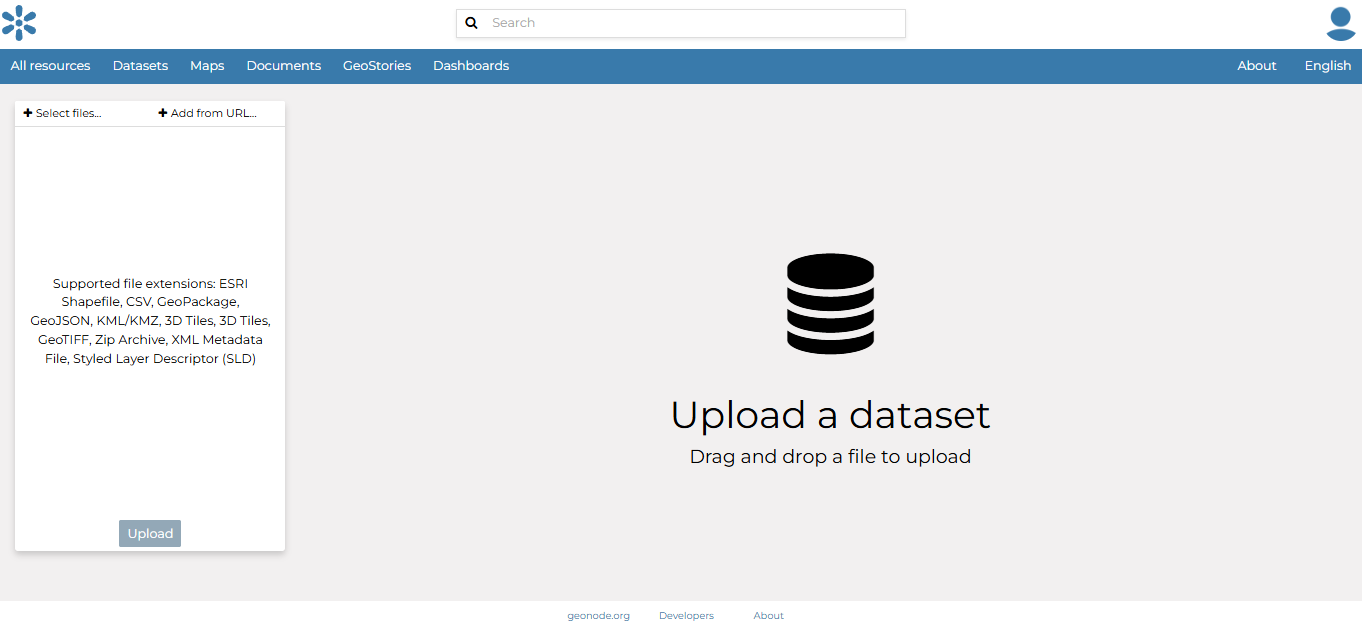
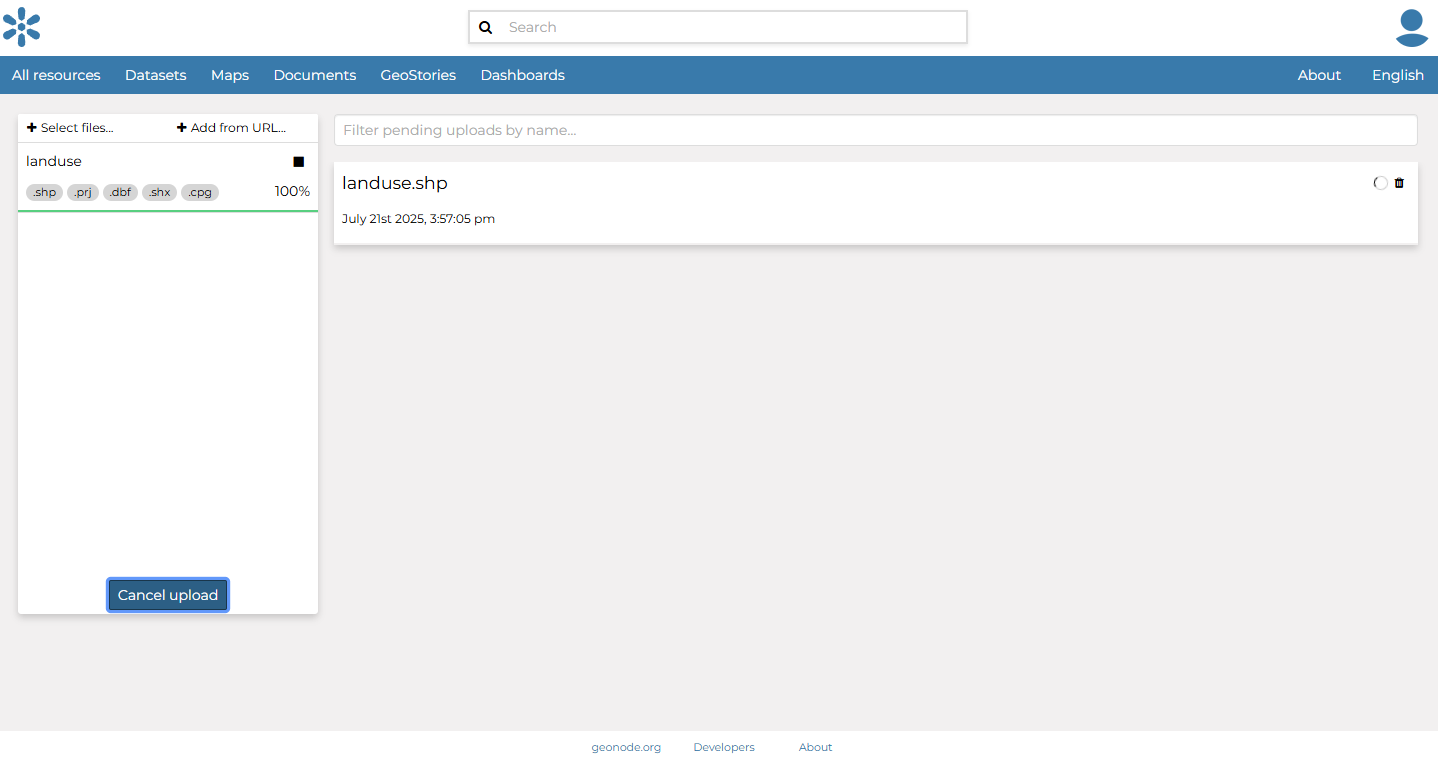
Update: GeoNode Manual - Datasets

diff --git a/docs/src/products/geonode/manual/dataset.md b/docs/src/products/geonode/manual/dataset.md
@@ -14,114 +14,71 @@ context_id: nDU6LLGiXPTLADXY
 
 # Uploading Datasets
 
-## Overview
-
-In GeoNode, **datasets** are the core published resources that represent either **raster** or **vector** spatial data sources. Each dataset can also include metadata, user ratings, and comments. This makes them collaborative and easy to manage within the GeoNode environment.
+In GeoNode, **datasets** are core resources that represent either **vector** or **raster** spatial data. Each dataset includes metadata and supports user collaboration through comments and ratings. Uploading datasets is a key part of sharing spatial content on your GeoNode instance.
 
 <br>
 
-You can upload datasets in two ways:
+You can start the upload process in two places:
 
-1. **From the All Resources Page:**
-
-     Click **Add Resource** and select **Upload dataset** from the list.
-
-     <br>
-
-2. **From the Datasets Page:**
-
-     Click **New** and select **Upload dataset** from the dropdown.
-
-     <br>
-
-> **Note:** The default maximum upload size in GeoNode is 100 MB. Administrators can increase this limit in the admin panel.
-The maximum number of parallel uploads is 5. This setting can also be adjusted by an administrator.
-
----
-
-## Exercise
-
-Follow these steps to upload your dataset to GeoNode:
-
-1. On the GeoNode **Homepage**, click the **Datasets** tab.
-
-     <br>
-
-     <div style="text-align: center;">
-      <img src="../../img/geonode-img-12.png" alt="Datasets Tab" width=auto>
-      <div style="font-size: 0.8em; color: gray; margin-top: 4px;">
-      Image credit: <a href="https://geonode.org/" target="_blank">GeoNode</a>
-      </div>
-     </div>
-
-     <br>
-
-2. Click **New** and select **Upload dataset** from the dropdown.
-
-     <br>
-
-     <div style="text-align: center;">
-      <img src="../../img/geonode-img-13.png" alt="Upload Dataset Dropdon" width=auto>
-      <div style="font-size: 0.8em; color: gray; margin-top: 4px;">
-      Image credit: <a href="https://geonode.org/" target="_blank">GeoNode</a>
-      </div>
-     </div>
-
-     <br>
-
-3. From the **Upload a Dataset** page, click **Select files...** to choose spatial data files from your computer.
-
-     <br>
-
-     <div style="text-align: center;">
-      <img src="../../img/geonode-img-14.png" alt="Select Files" width=auto>
-      <div style="font-size: 0.8em; color: gray; margin-top: 4px;">
-      Image credit: <a href="https://geonode.org/" target="_blank">GeoNode</a>
-      </div>
-     </div>
-
-     <br>
-
-4. From your file explorer, select the file: `Tutorial_Berlin-shp.zip`
-
-     <br>
-
-     <div style="text-align: center;">
-      <img src="../../img/geonode-img-15.png" alt="Selected Files" width=auto>
-      <div style="font-size: 0.8em; color: gray; margin-top: 4px;">
-      Image credit: <a href="https://geonode.org/" target="_blank">GeoNode</a>
-      </div>
-     </div>
-
-     <br>
-
-5. Click **Upload** to begin the dataset upload process.
-
-     <br>
-
-A progress bar will display the upload status and notify you when the upload is complete. When the upload finishes, click the **View** button to open your dataset.
+- From the **All Resources** page via **Add Resource → Upload dataset**
+- From the **Datasets** page via **New → Upload dataset**
 
 <br>
 
-<div style="text-align: center;">
- <img src="../../img/geonode-img-16.png" alt="View Uploaded Datasets" width=auto>
- <div style="font-size: 0.8em; color: gray; margin-top: 4px;">
- Image credit: <a href="https://geonode.org/" target="_blank">GeoNode</a>
- </div>
+## Step 1: Access the Dataset Page
+
+From the GeoNode **Homepage**, click the **Datasets** tab. Then, click the **New button** and select **Upload dataset** from the dropdown.
+
+<br>
+
+<div class="image-with-caption">
+  <img src="../../img/geonode-img-13.png" alt="Datasets Tab">
+  <div class="caption">
+    Image credit: <a href="https://geonode.org/" target="_blank">GeoNode</a>
+  </div>
 </div>
 
 <br>
 
-> **Note:** For more details, refer to the [Managing Datasets](https://docs.geonode.org/en/master/usage/managing_datasets/index.html#managing-datasets) section of the official GeoNode documentation.
+## Step 2: Select and Upload Files
+
+On the **Upload a Dataset** page, click **Select files...** and choose the 5 componenets of the `landuse` shapefile in the `Data` folder. Once selected, click **Upload**.
+
+GeoNode will show a progress bar as the files are uploaded and unpacked.
+
+<br>
+
+<div class="image-with-caption">
+  <img src="../../img/geonode-img-14.png" alt="Upload Datasets">
+  <div class="caption">
+    Image credit: <a href="https://geonode.org/" target="_blank">GeoNode</a>
+  </div>
+</div>
+
+<br>
+
+## Step 3: View Your Dataset
+
+Once the upload is complete, click **View** to open your newly published dataset. This opens the **Dataset Detail Page**, where you can:
+
+- Browse the data on a map
+- See and edit metadata
+- Download the original files
+- Comment or rate the dataset
+
+<br>
+
+<div class="image-with-caption">
+  <img src="../../img/geonode-img-15.png" alt="View Datasets">
+  <div class="caption">
+    Image credit: <a href="https://geonode.org/" target="_blank">GeoNode</a>
+  </div>
+</div>
+
+<br>
 
 ---
 
-# Need More Help?
+**Next up:** Learn how to upload a document to GeoNode so you can include reports, notes, or supporting files alongside your datasets.
 
-Visit the official GeoNode documentation:
-
-- **[https://docs.geonode.org/en/master/](https://docs.geonode.org/en/master/)**
-
----
-
-© 2024 Kartoza. Licensed under the GNU AGPL v3.
+<br>
